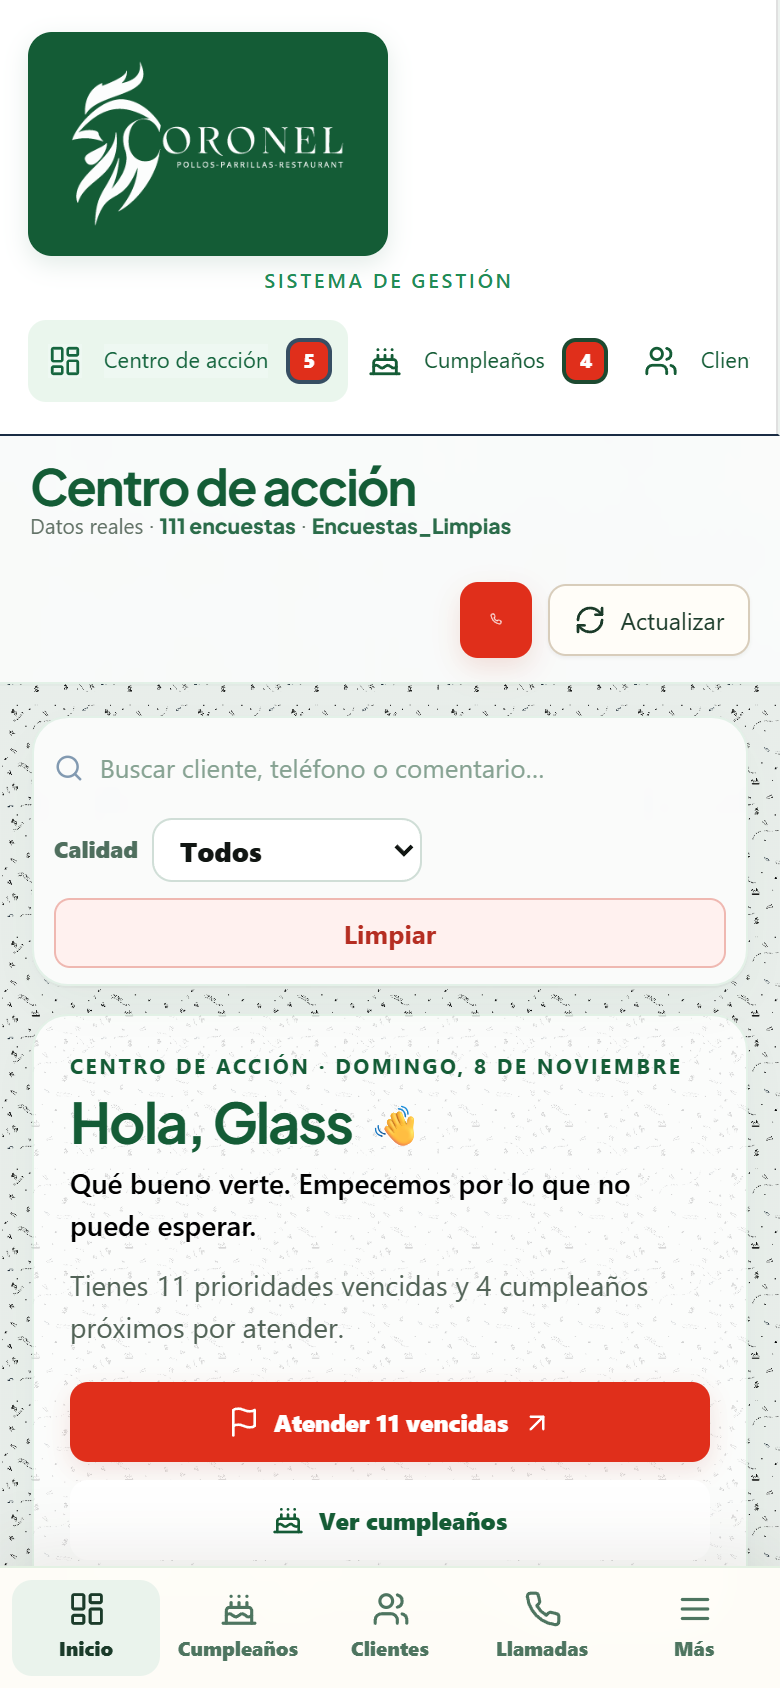
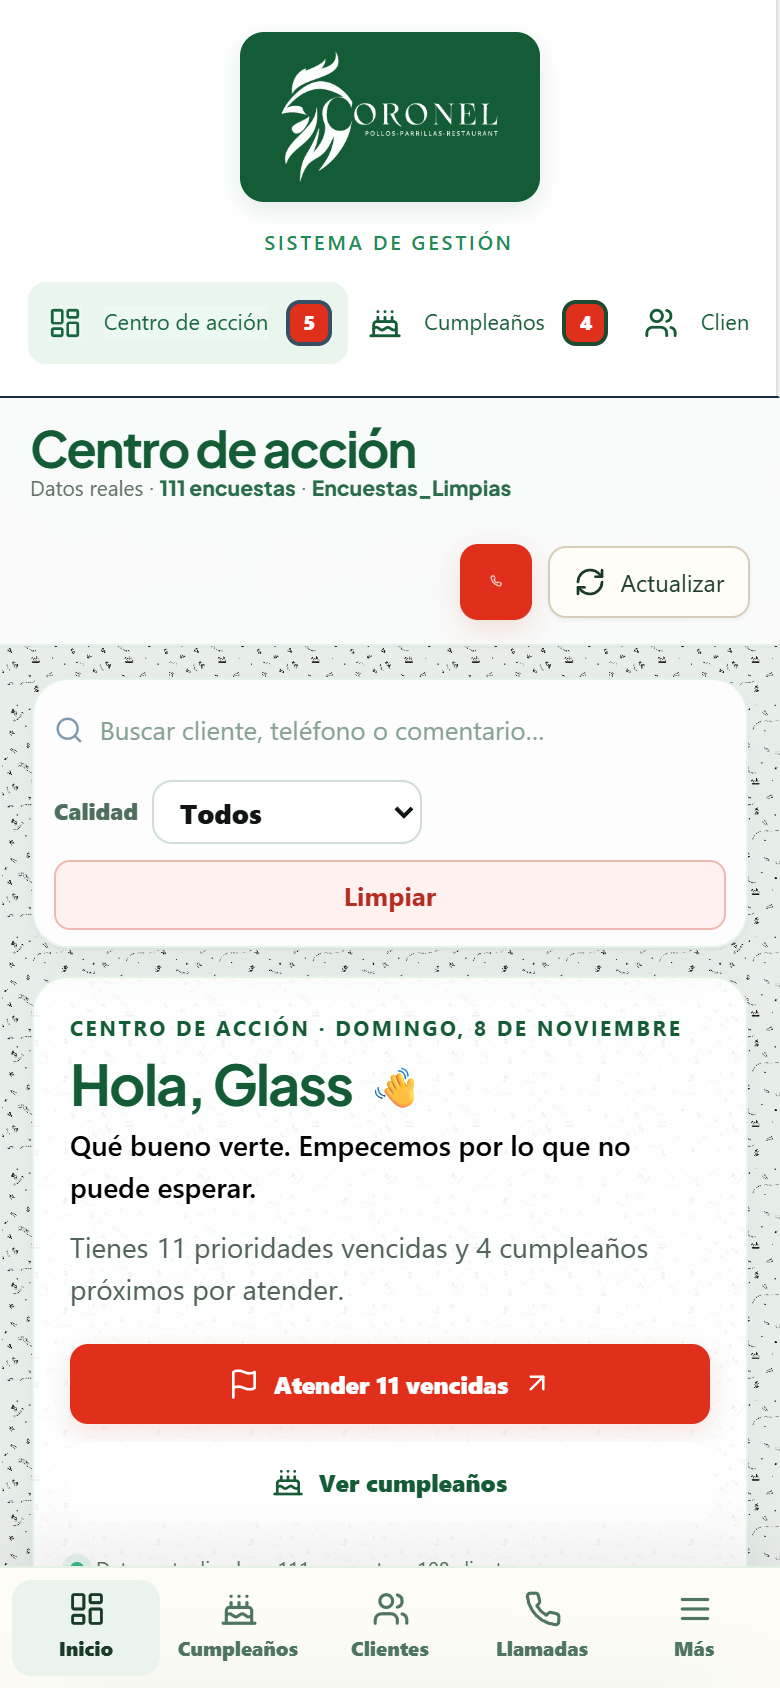
Documentar Soft Glass y secciones de Equipo

Changed region(s): [[0.0308, 0.0, 0.9538, 0.9242], [0.8923, 0.1848, 0.9538, 0.2156], [0.8308, 0.1848, 0.8615, 0.2464]]

diff --git a/client/src/pages/Home.tsx b/client/src/pages/Home.tsx
@@ -9842,6 +9842,10 @@ function Team({
           }
         />
       </div>
+      <div className="team-section-heading">
+        <p className="eyebrow">PERSONAS</p>
+        <h2>Volumen y calidad por persona</h2>
+      </div>
       <div className="dashboard-grid team-grid">
         <section
           id="delivery-scorecard"
@@ -9992,6 +9996,10 @@ function Team({
             <Empty text="No hay datos de meseros para comparar." />
           )}
         </section>
+      </div>
+      <div className="team-section-heading">
+        <p className="eyebrow">METAS</p>
+        <h2>Objetivos del equipo</h2>
       </div>
       <section
         id="team-targets"

diff --git a/client/src/index.css b/client/src/index.css
@@ -4399,3 +4399,8 @@ body {
   .sidebar-logo { max-width: 118px !important; }
   .brand-tagline { margin-top: 0 !important; }
 }
+
+.team-section-heading { margin: 22px 2px 10px; }
+.team-section-heading .eyebrow { margin-bottom: 3px; }
+.team-section-heading h2 { margin: 0; font-size: 27px !important; }
+@media (max-width: 760px) { .team-section-heading { margin-top: 17px; } .team-section-heading h2 { font-size: 23px !important; } }

diff --git a/docs/SOFT_GLASS.md b/docs/SOFT_GLASS.md
@@ -1,0 +1,70 @@
+# Soft Glass Dashboard
+
+## Estructura
+
+### Logo
+- Vive en la **barra lateral**, dentro de un bloque sólido `#145c36`.
+- El header ya no contiene el logo.
+- El logo blanco se lee perfectamente sobre el bloque verde.
+
+### Paleta calibrada
+
+| Token | Valor | Uso |
+|---|---|---|
+| `--brand-green-dark` | `#145c36` | Títulos, iconos, logo |
+| `--brand-green-light` | `#9ed4ae` | Bordes, badges, tarjetas secundarias |
+| `--brand-accent-red` | `#e02f1b` | Alertas críticas y CTA |
+| `--bg-app` | `#f3f6f4` | Fondo general |
+| `--bg-card` | `#ffffff` | Tarjetas |
+| `--text-main` | `#111613` | Texto principal |
+| `--text-muted` | `#526357` | Texto secundario |
+| `--radius-dashboard` | `18px` | Tarjetas flotantes |
+| `--shadow-card` | sombra verde muy suave | Volumen |
+
+### Fondo
+- Patrón Coronel repetido a **220 px**.
+- Capa blanca de 97 % para que el patrón se vea sin competir con la lectura.
+- También se aplica en login y carga.
+
+### Tarjetas
+- `.dashboard-card` y `.panel`.
+- Fondo blanco translúcido.
+- Borde verde fino.
+- Sombra suave.
+- Hover de 2 px.
+
+### Header
+- Blanco con vidrio suave (`backdrop-filter`).
+- Título en verde oscuro.
+- Sin logo.
+
+### Sidebar
+- Blanca.
+- Logo en caja verde oscura de 12 px de radio.
+- Navegación verde.
+- Badges rojos calibrados.
+
+## Equipo: reestructuración
+
+Orden nuevo:
+
+1. Encabezado con **Editar metas** visible.
+2. **Período** primero.
+3. **Insights** del período.
+4. **KPI** del período.
+5. Comparación solo si hay fechas completas.
+6. **Personas**: volumen y calidad.
+7. **Metas** al final, colapsadas.
+
+Se eliminó la comparación vacía que aparecía sin fechas y se movieron las metas fuera del flujo principal.
+
+## Contraste
+- Contexto de la señal: modal blanco, texto negro, contador negro.
+- Fichas y modales: superficies blancas.
+- Nombres de clientes y productos sin depender del hover.
+- Textos secundarios más grandes.
+
+## Capturas
+- [Soft Glass · Inicio](screenshots/audit/softglass-overview.png)
+- [Soft Glass · Equipo](screenshots/audit/softglass-team.png)
+- [Soft Glass · Móvil](screenshots/audit/softglass-mobile.png)
